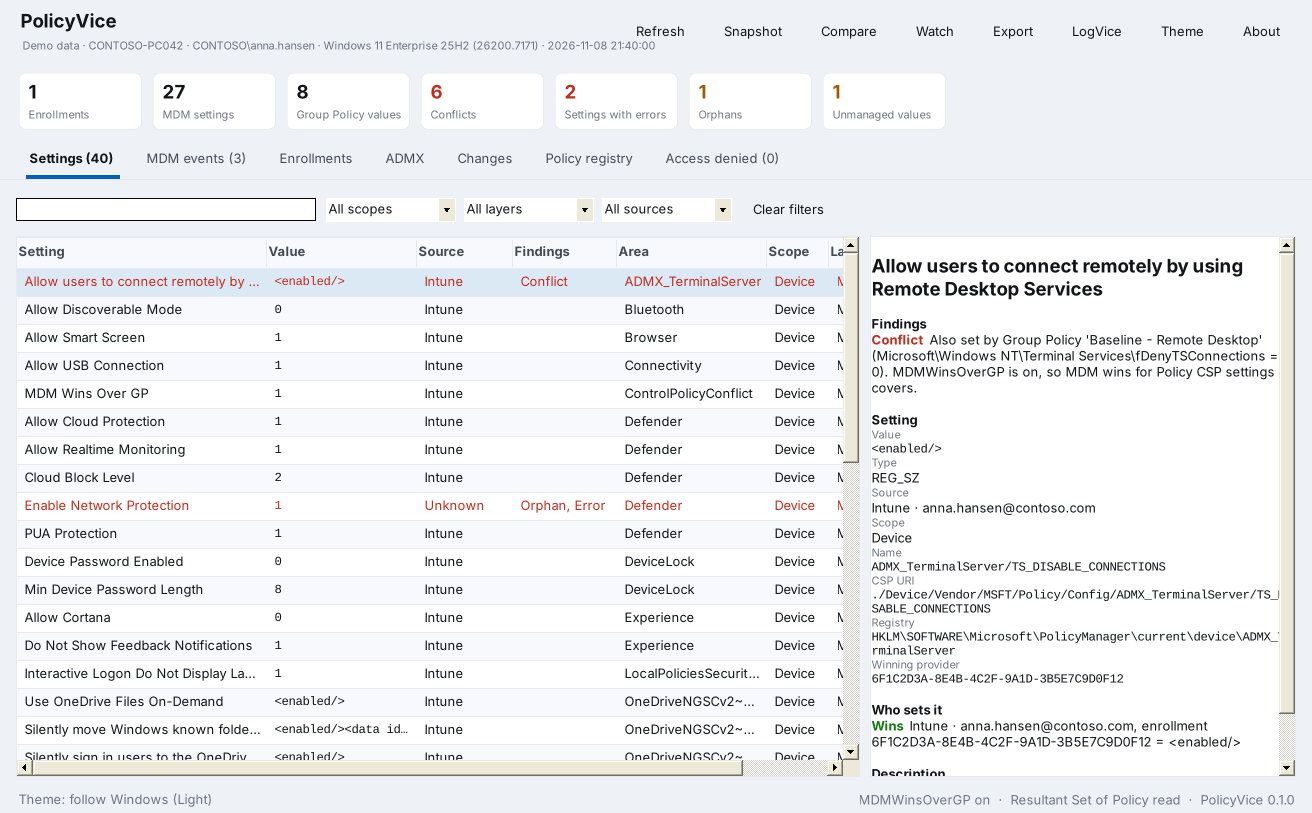
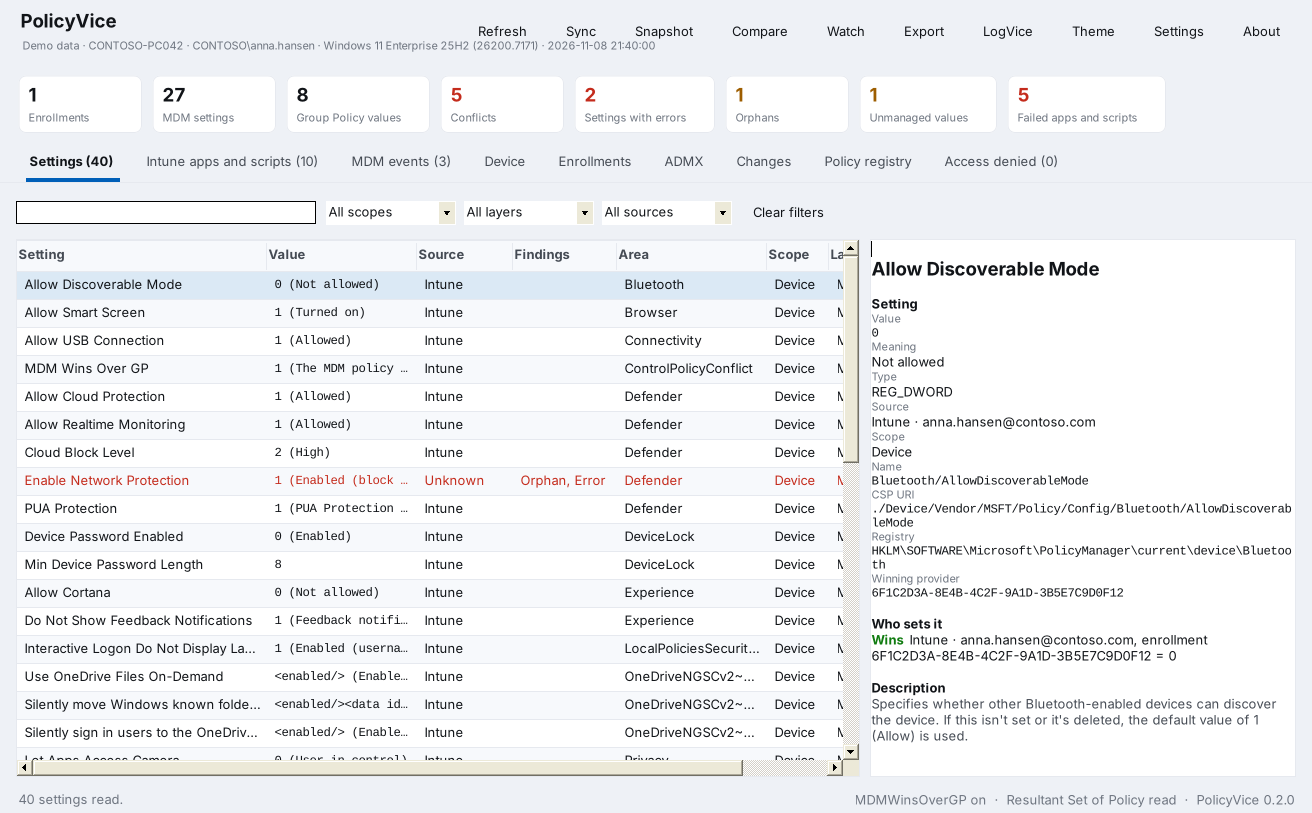
Refresh screenshots and documentation for 0.2.0

diff --git a/CHANGELOG.md b/CHANGELOG.md
@@ -12,6 +12,10 @@
 - Exact conflict detection through the ADMX policy or the documented registry value, for every documented Policy CSP setting
 - User Group Policy from Resultant Set of Policy, so user policy values show their GPO
 - **Sync** button that starts Windows' MDM sync task, and an option to start Watch after a sync
+- `SOFTWARE\Microsoft\Windows\CurrentVersion\Policies` is read and watched, with Group Policy and MDM owners, so settings like HideFastUserSwitching are covered
+- Values written by ADMX-backed MDM settings, such as security baselines, device control and OneDrive, are attributed to MDM
+- Settings that Windows failed to apply are listed with one Error finding each, with the number of failures
+- The signed-in user's policy is read when PolicyVice runs as another administrator account
 - Settings and About windows, F1 and Ctrl+, shortcuts
 - Copy cell, row or all rows from every grid, and Ctrl+C
 - HTML report with Device and Intune apps and scripts sections; CSV with the value meaning and Group Policy counterpart
@@ -23,7 +27,11 @@
 - A source that fails or times out no longer stops the rest; reading Group Policy can no longer hang the app
 - A winning provider that is not an MDM enrollment shows as Unknown instead of Other MDM
 - No Orphan findings when a provider key could not be read
-- More MDM event formats are parsed, including events without a message text
+- More MDM event formats are parsed, including events without a message text, and messages are read in the Windows display language so they are not empty with Danish regional settings
+- Area matches between Group Policy and MDM are now an Overlap hint instead of a Conflict
+- The watch log no longer shows changes of source only, and a manual refresh while watching no longer hides changes
+- The CSV uses the list separator of the regional format, so it opens in columns in Excel
+- Saved reports open in the signed-in user's browser, not as administrator; Windows DLLs load from System32 only
 - A refresh requested while reading is queued instead of lost
 - Errors in buttons and menus show in the status bar instead of closing the app
 

diff --git a/README.md b/README.md
@@ -34,6 +34,7 @@ Names, value meanings, descriptions and Group Policy counterparts come from Micr
 | **Error** | The DeviceManagement event log has a failure for this CSP URI in the last 7 days. |
 | **Orphan** | The value is in `PolicyManager\current`, but no MDM provider sent it. A removed profile or enrollment may have left it behind. |
 | **Unmanaged** | A value under `HKLM\SOFTWARE\Policies` that no GPO and no MDM setting claims. It is often tattooed, or written by a script or an app. |
+| **Overlap** | A hint, not counted: a GPO sets something in an area that MDM also configures, such as Windows Update, but not the same setting. |
 
 Click a count at the top to filter on it.
 
@@ -92,7 +93,7 @@ $p.ExitCode
 | MDM providers | `PolicyManager\providers\<enrollment ID>\default` |
 | Enrollments | `HKLM\SOFTWARE\Microsoft\Enrollments` |
 | Ingested ADMX | `PolicyManager\AdmxInstalled` and `%ProgramData%\Microsoft\PolicyManager\ADMXIngestion` |
-| Policy registry | `HKLM\SOFTWARE\Policies`, `HKCU\SOFTWARE\Policies` and `HKU\<SID>\SOFTWARE\Policies` for MDM users |
+| Policy registry | `SOFTWARE\Policies` and `SOFTWARE\Microsoft\Windows\CurrentVersion\Policies` in HKLM, HKCU, and HKU for MDM users and the signed-in user |
 | Group Policy | WMI `root\RSOP\Computer` and `root\RSOP\User\<SID>`, `RSOP_RegistryPolicySetting` and `RSOP_GPO` |
 | Intune apps and scripts | `HKLM\SOFTWARE\Microsoft\IntuneManagementExtension`, and app names from the IME logs |
 | Device | The Windows join APIs, `CloudDomainJoin`, `Enrollments`, `Provisioning\OMADM` and `SOFTWARE\Microsoft\CCM` |
